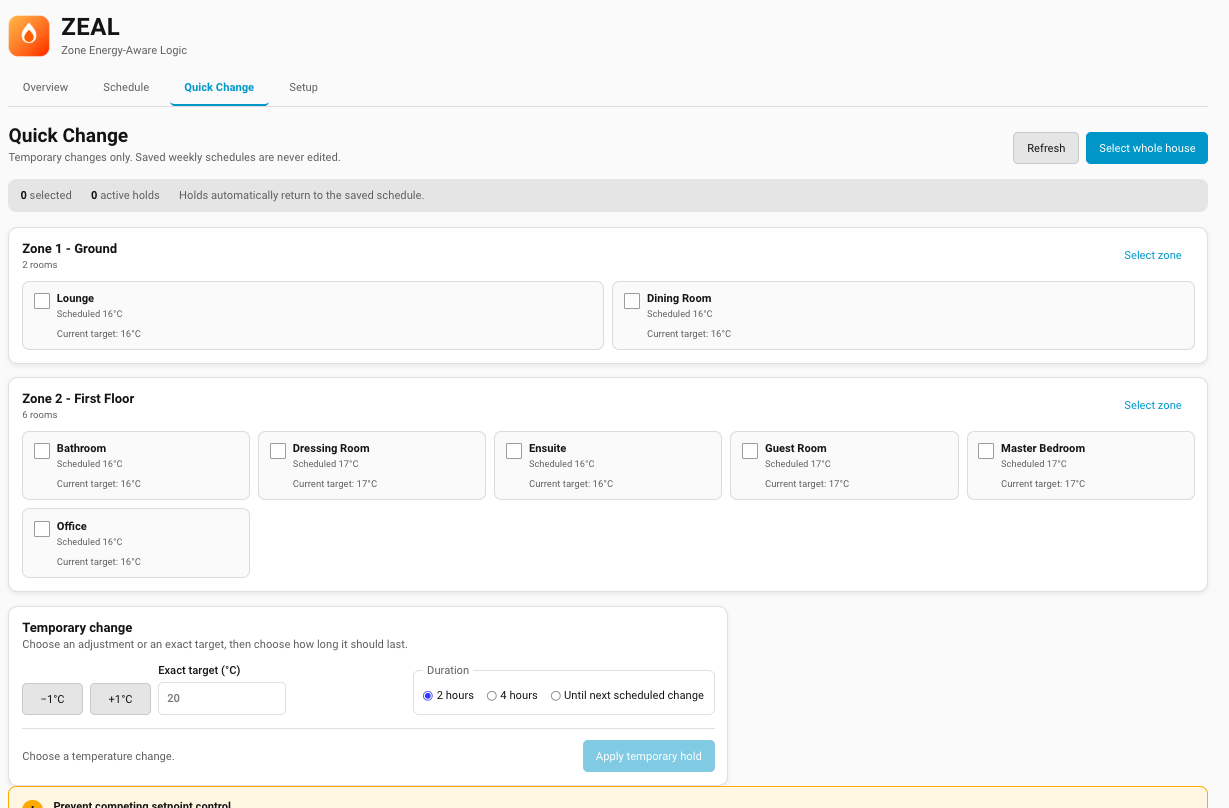
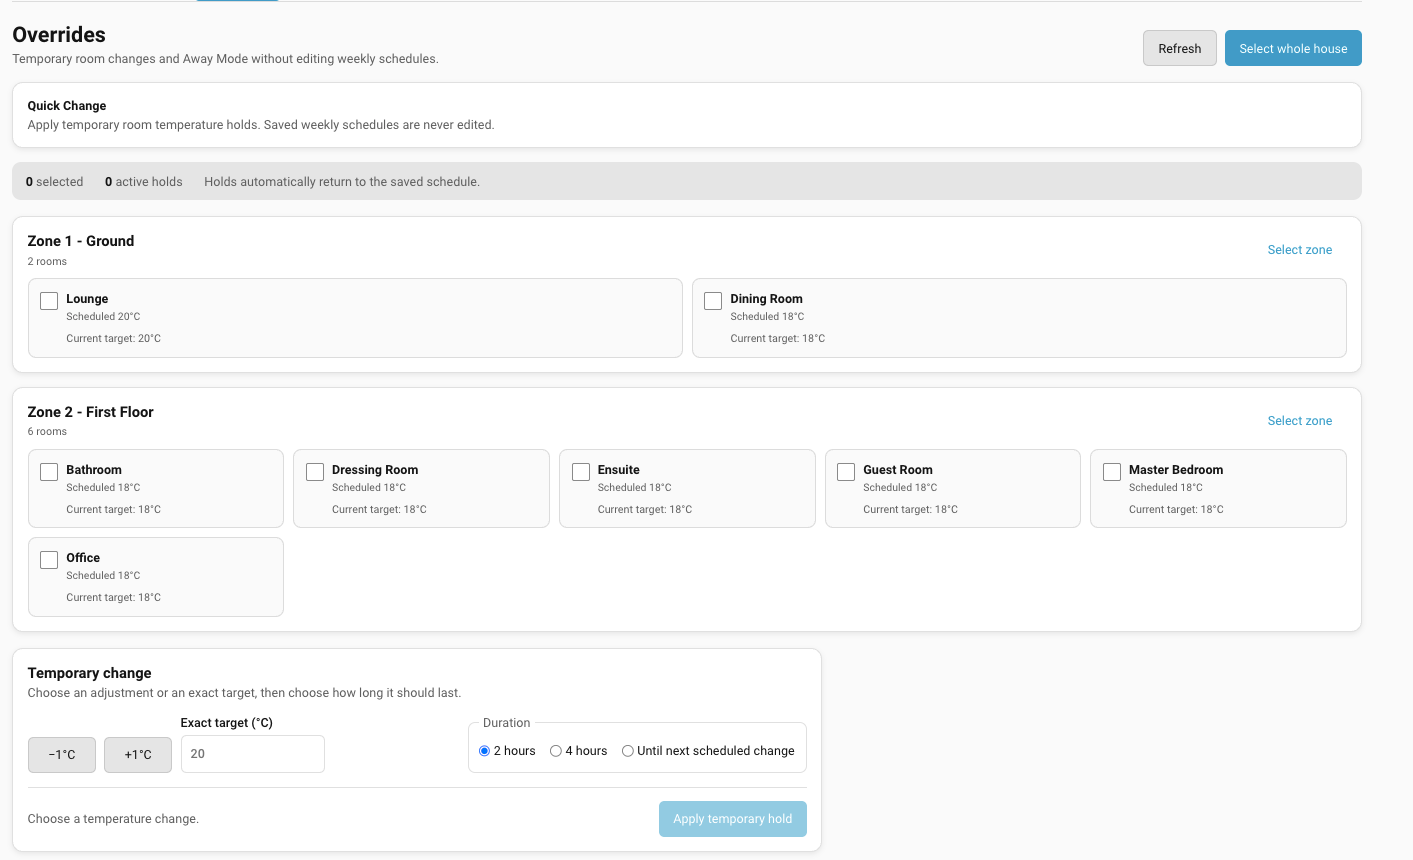
Refresh Overrides documentation screenshots

diff --git a/docs/INSTRUCTIONS_FOR_USE.md b/docs/INSTRUCTIONS_FOR_USE.md
@@ -127,6 +127,8 @@ While Away is active, new Quick Changes are blocked. Existing holds pause and
 resume afterward only if they have not expired. The Away banner's **Away
 settings** button also opens Overrides rather than Setup.
 
+![ZEAL Away mode configured with an exact start and end date/time and one global target](images/zeal-away-date-range-desktop.png)
+
 ## Review Learning suggestions
 
 An administrator enables **ZEAL Learning — Schedule Adaptation** in Setup. The

diff --git a/docs/images/README.md b/docs/images/README.md
@@ -17,6 +17,8 @@ boundaries.
   controls
 - `zeal-quick-change-desktop.png` — room, Zone/Floor and whole-house temporary
   target selection
+- `zeal-away-date-range-desktop.png` — exact start/end Away configuration,
+  global target, control priority and save state
 
 The captures contain generic room names and entity IDs needed to explain the
 interface. They contain no person names, addresses, email addresses, IP
